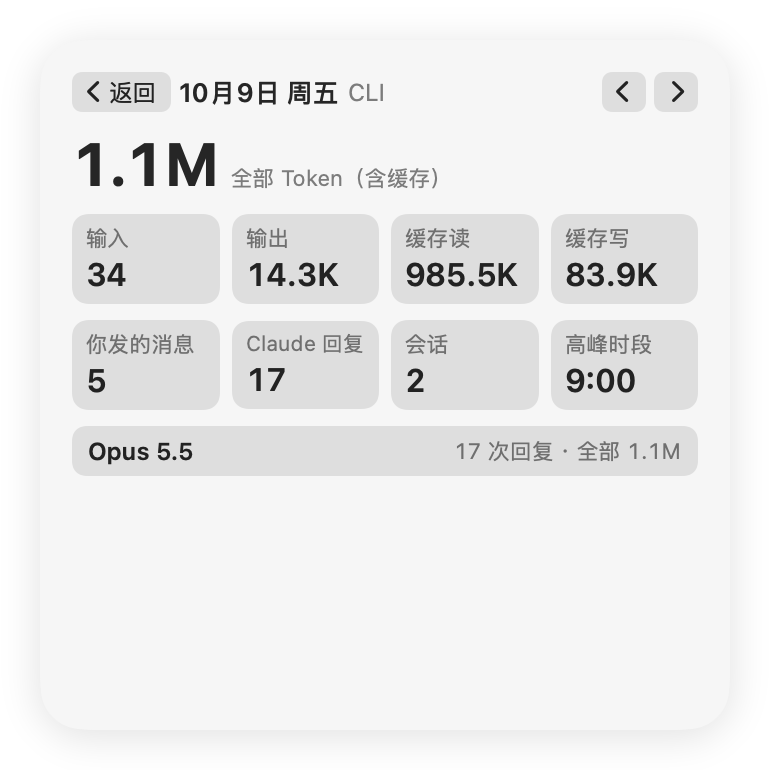
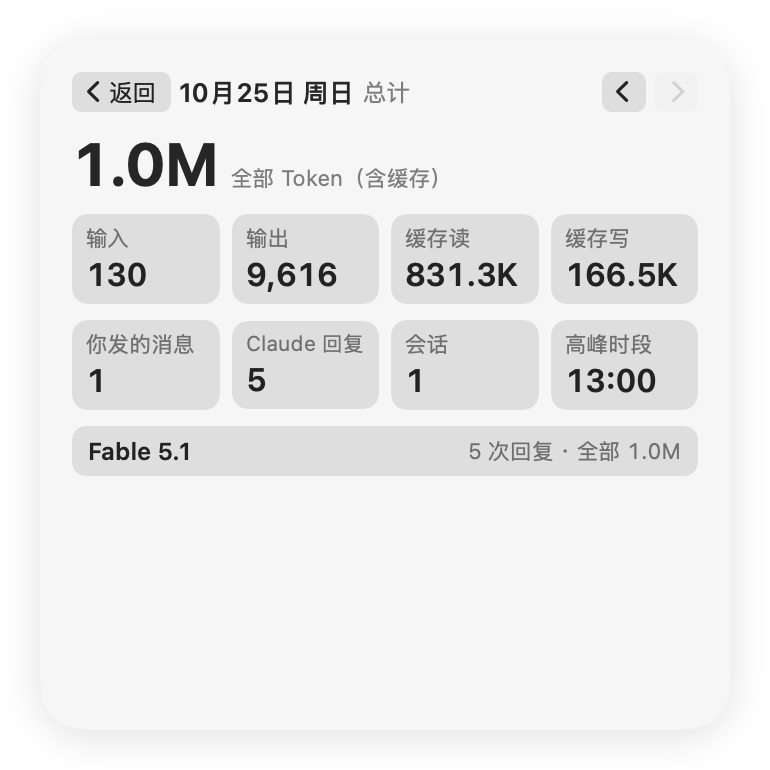
来源改成「总计 ▾」单按钮循环切换，默认显示 CLI + 桌面端总计
- UsageSource 加 all，统计时合并两种来源的文件
- 小组件做不了下拉菜单，左上角一个 pill 点击依次切 总计 → CLI → 桌面端
- 小号标题改为「Claude Code · 来源 ▾」同样循环
- 版本 1.2，README 与截图同步

diff --git a/App/main.swift b/App/main.swift
@@ -27,20 +27,21 @@ if args.contains("--once") || args.contains("--dump") || args.contains("--render
         MainActor.assumeIsolated {
             let snap = UsageSnapshot.load()
             // 详情页截图用最近一个有记录的日子，今天可能还没用过
-            let day = snap?.sources[.cli]?.heatmap.last { $0.detail != nil }?.date ?? StatsEngine.dayKey(Date())
+            let day = snap?.sources[.all]?.heatmap.last { $0.detail != nil }?.date ?? StatsEngine.dayKey(Date())
             let shots: [(UsageSource, UsageTab, CGSize, UsageSize, String?, String)] = [
-                (.cli, .overview, CGSize(width: 715, height: 345), .large, nil, "extra-large"),
-                (.cli, .overview, CGSize(width: 715, height: 345), .large, day, "extra-large-day"),
-                (.cli, .overview, CGSize(width: 345, height: 345), .large, nil, "large"),
-                (.cli, .overview, CGSize(width: 345, height: 345), .large, day, "large-day"),
-                (.cli, .models, CGSize(width: 345, height: 345), .large, nil, "large-models"),
-                (.cli, .overview, CGSize(width: 345, height: 165), .medium, nil, "medium"),
+                (.all, .overview, CGSize(width: 715, height: 345), .large, nil, "extra-large"),
+                (.all, .overview, CGSize(width: 715, height: 345), .large, day, "extra-large-day"),
+                (.all, .overview, CGSize(width: 345, height: 345), .large, nil, "large"),
+                (.all, .overview, CGSize(width: 345, height: 345), .large, day, "large-day"),
+                (.all, .models, CGSize(width: 345, height: 345), .large, nil, "large-models"),
+                (.all, .overview, CGSize(width: 345, height: 165), .medium, nil, "medium"),
+                (.cli, .overview, CGSize(width: 345, height: 165), .medium, nil, "medium-cli"),
                 (.desktop, .overview, CGSize(width: 345, height: 165), .medium, nil, "medium-desktop"),
-                (.cli, .models, CGSize(width: 345, height: 165), .medium, nil, "medium-models"),
-                (.cli, .overview, CGSize(width: 345, height: 165), .medium, day, "medium-day"),
-                (.cli, .overview, CGSize(width: 165, height: 165), .small, nil, "small"),
+                (.all, .models, CGSize(width: 345, height: 165), .medium, nil, "medium-models"),
+                (.all, .overview, CGSize(width: 345, height: 165), .medium, day, "medium-day"),
+                (.all, .overview, CGSize(width: 165, height: 165), .small, nil, "small"),
                 (.desktop, .overview, CGSize(width: 165, height: 165), .small, nil, "small-desktop"),
-                (.cli, .overview, CGSize(width: 165, height: 165), .small, day, "small-day")]
+                (.all, .overview, CGSize(width: 165, height: 165), .small, day, "small-day")]
             for (source, tab, size, kind, day, suffix) in shots {
                 // 截图用实色卡片，不要桌面上的玻璃透明效果
                 let view = UsageView(snapshot: snap, source: source, tab: tab, range: .all, size: kind, selectedDay: day)

diff --git a/Shared/UsageView.swift b/Shared/UsageView.swift
@@ -124,13 +124,9 @@ struct UsageView: View {
 
     private var small: some View {
         VStack(alignment: .leading, spacing: 4) {
-            // 小尺寸放不下表头：点标题在 CLI 和桌面端之间切换
-            Button(intent: SelectSourceIntent(source.other)) {
-                HStack(spacing: 3) {
-                    Text("\(source.label) · 全部")
-                    Image(systemName: "arrow.left.arrow.right").font(.system(size: 8, weight: .semibold))
-                }
-                .font(.system(size: 11, weight: .semibold)).foregroundStyle(.secondary)
+            // 小尺寸放不下表头：点标题循环切换来源
+            Button(intent: SelectSourceIntent(source.next)) {
+                Text("Claude Code · \(source.label) ▾").font(.system(size: 11, weight: .semibold)).foregroundStyle(.secondary)
             }
             .buttonStyle(.plain)
             Text(Fmt.compact(stats.tokens.main)).font(.system(size: 28, weight: .bold)).monospacedDigit()
@@ -178,9 +174,7 @@ struct UsageView: View {
 
     private func header(font: CGFloat) -> some View {
         HStack(spacing: 2) {
-            ForEach(UsageSource.allCases, id: \.self) { s in
-                pill(s.label, source == s, SelectSourceIntent(s), font)
-            }
+            pill(source.label + " ▾", true, SelectSourceIntent(source.next), font)
             Spacer()
             pill("概览", tab == .overview, SelectTabIntent(.overview), font)
             pill("模型", tab == .models, SelectTabIntent(.models), font)

diff --git a/Shared/Models.swift b/Shared/Models.swift
@@ -11,11 +11,12 @@ enum Shared {
     static var defaults: UserDefaults { .standard }
 }
 
-// 最大层：Claude Code CLI 和 Claude 桌面端的 Code 功能各算各的
+// 最大层：全部 = CLI + Claude 桌面端的 Code 功能；会话文件只会被标成 cli 或 desktop
 enum UsageSource: String, CaseIterable, Codable, CodingKeyRepresentable, Sendable {
-    case cli, desktop
-    var label: String { switch self { case .cli: "CLI"; case .desktop: "桌面端" } }
-    var other: UsageSource { self == .cli ? .desktop : .cli }
+    case all, cli, desktop
+    var label: String { switch self { case .all: "总计"; case .cli: "CLI"; case .desktop: "桌面端" } }
+    // 小组件做不了下拉菜单，用一个按钮循环切换
+    var next: UsageSource { Self.allCases[(Self.allCases.firstIndex(of: self)! + 1) % Self.allCases.count] }
     init?(entrypoint: String) {
         if entrypoint.contains("cli") { self = .cli }
         else if entrypoint == "claude-desktop" { self = .desktop }

diff --git a/Shared/UsageIntents.swift b/Shared/UsageIntents.swift
@@ -48,7 +48,7 @@ struct SetDayIntent: AppIntent {
 
 extension Shared {
     static var selectedDay: String? { defaults.string(forKey: "day") }
-    static var source: UsageSource { UsageSource(rawValue: defaults.string(forKey: "source") ?? "") ?? .cli }
+    static var source: UsageSource { UsageSource(rawValue: defaults.string(forKey: "source") ?? "") ?? .all }
     static var tab: UsageTab { UsageTab(rawValue: defaults.string(forKey: "tab") ?? "") ?? .overview }
     static var range: UsageRange { UsageRange(rawValue: defaults.string(forKey: "range") ?? "") ?? .all }
 }

diff --git a/App/StatsEngine.swift b/App/StatsEngine.swift
@@ -135,7 +135,7 @@ enum StatsEngine {
     static func snapshot(from cache: [String: FileAgg], now: Date = Date()) -> UsageSnapshot {
         var sources: [UsageSource: SourceStats] = [:]
         for s in UsageSource.allCases {
-            sources[s] = stats(cache.values.filter { $0.source == s }, now: now)
+            sources[s] = stats(cache.values.filter { s == .all ? $0.source != nil : $0.source == s }, now: now)
         }
         return UsageSnapshot(generatedAt: now, sources: sources)
     }

diff --git a/README.en.md b/README.en.md
@@ -12,7 +12,7 @@
 
 A WidgetKit desktop widget with a layout modeled on the usage panel in the Claude desktop app. All data comes from the Claude Code session logs in `~/.claude/projects` on your Mac. Nothing goes over the network or gets uploaded.
 
-- **Source**: CLI and the desktop app (the Code feature in the Claude desktop app) are tracked separately. Switch with the leftmost pills in the header, or tap the title on the small size.
+- **Source**: shows everything by default. Tap `总计 ▾` in the top-left to cycle through CLI and the desktop app (the Code feature in the Claude desktop app); on the small size, tap the title.
 > The widget UI is currently in Chinese only.
 
 - **Overview**: sessions, tokens (input + output), all tokens (including cache), active days, peak hour, most-used model
@@ -22,7 +22,7 @@ A WidgetKit desktop widget with a layout modeled on the usage panel in the Claud
 - **Day details**: tap a heatmap cell to open that day's page with all tokens, input / output / cache read / cache write, your messages, Claude replies, sessions, peak hour and per-model usage. "Back" in the top-left returns to the main view, and ◀ ▶ in the top-right moves between days
 - **Four sizes**: small, medium, large, extra large
 
-| Medium · CLI | Medium · desktop | Medium · day details |
+| Medium · total | Medium · desktop | Medium · day details |
 |---|---|---|
 | <img src="docs/screenshots/medium.png" width="240"> | <img src="docs/screenshots/medium-desktop.png" width="240"> | <img src="docs/screenshots/medium-day.png" width="240"> |
 
@@ -36,7 +36,7 @@ A WidgetKit desktop widget with a layout modeled on the usage panel in the Claud
 
 ## How usage is counted
 
-- **CLI and desktop kept apart**: each log line carries an `entrypoint`; `cli` (and `sdk-cli`) count as CLI, `claude-desktop` counts as desktop. Each source has its own overview, model breakdown, heatmap and day details. They are never summed.
+- **Total / CLI / desktop**: each log line carries an `entrypoint`; `cli` (and `sdk-cli`) count as CLI, `claude-desktop` counts as desktop, and Total is the sum. Each source has its own overview, model breakdown, heatmap and day details.
 - **Deduplicated per reply**: a single model reply is written as several lines, one per content block, and each line carries the same usage (about 2.2× duplication in practice). Usage is deduplicated by `message.id`, so the numbers are lower than a naive sum.
 - **Tokens (input + output)** exclude cache. **All tokens** = input + output + cache read + cache write, and are mostly cache reads.
 - **Sessions**: session files that contain a conversation. Subagent logs count toward tokens but not as separate sessions.

diff --git a/README.md b/README.md
@@ -12,7 +12,7 @@
 
 一个 WidgetKit 桌面小组件，布局参考 Claude 桌面版的用量面板，数据全部来自本机 `~/.claude/projects` 里的 Claude Code 会话记录，不联网、不上传。
 
-- **来源**：CLI 和桌面端（Claude 桌面版的 Code 功能）分开统计，表头最左边切换；小号点标题切换
+- **来源**：默认显示总计，左上角 `总计 ▾` 点一下依次切到 CLI、桌面端（Claude 桌面版的 Code 功能）；小号点标题切换
 - **概览**：会话数、Token（输入+输出）、全部 Token（含缓存）、活跃天数、高峰时段、最常用模型
 - **模型**：按模型拆开输入 / 输出 / 缓存读 / 缓存写四类 token
 - **时间范围**：全部 / 30 天 / 7 天，点一下切换
@@ -20,7 +20,7 @@
 - **某天详情**：点热力图的格子进入当天详情页，显示全部 token、输入 / 输出 / 缓存读 / 缓存写、你发的消息、Claude 回复、会话数、高峰时段和各模型用量；左上角「返回」回到主界面，右上角 ◀ ▶ 前后切换
 - **四种尺寸**：小、中、大、超大
 
-| 中号 · CLI | 中号 · 桌面端 | 中号 · 某天详情 |
+| 中号 · 总计 | 中号 · 桌面端 | 中号 · 某天详情 |
 |---|---|---|
 | <img src="docs/screenshots/medium.png" width="240"> | <img src="docs/screenshots/medium-desktop.png" width="240"> | <img src="docs/screenshots/medium-day.png" width="240"> |
 
@@ -34,7 +34,7 @@
 
 ## 统计口径
 
-- **CLI 和桌面端分开**：按每条记录的 `entrypoint` 区分，`cli`（含 `sdk-cli`）归 CLI，`claude-desktop` 归桌面端，两边各有自己的概览、模型、热力图和每日详情，互不相加。
+- **总计 / CLI / 桌面端**：按每条记录的 `entrypoint` 区分，`cli`（含 `sdk-cli`）归 CLI，`claude-desktop` 归桌面端，总计 = 两者相加。三个来源各有自己的概览、模型、热力图和每日详情。
 - **按回复去重**：同一次模型回复会按内容块拆成多行写入记录，每行都带同一份 usage（实测平均重复约 2.2 次）。这里按 `message.id` 去重，所以数字会比直接累加的小。
 - **Token（输入+输出）**：不含缓存。**全部 Token**：输入 + 输出 + 缓存读 + 缓存写，几乎都是缓存读取。
 - **会话**：有过对话的会话文件数（子 agent 的记录算 token，不单独算会话）。
